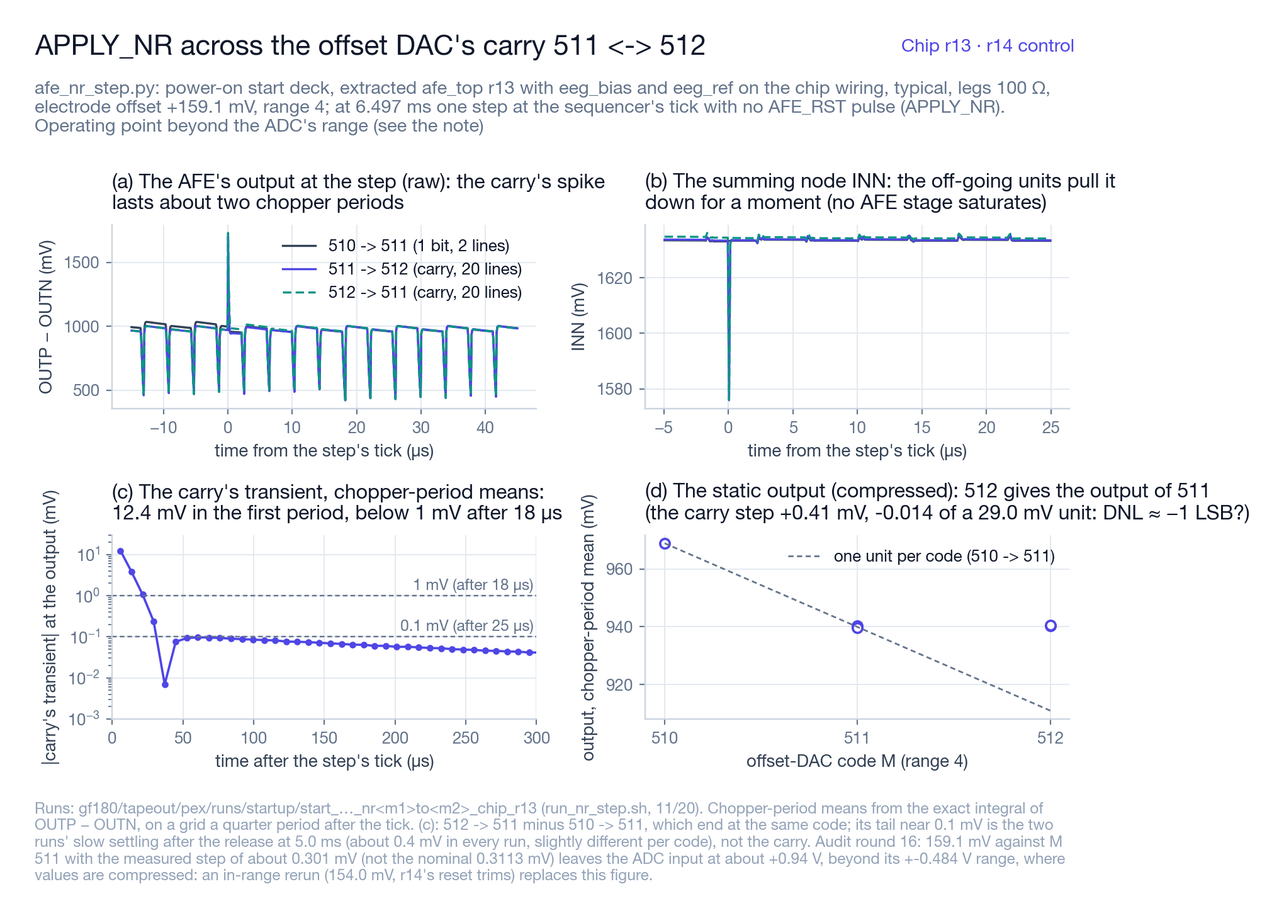
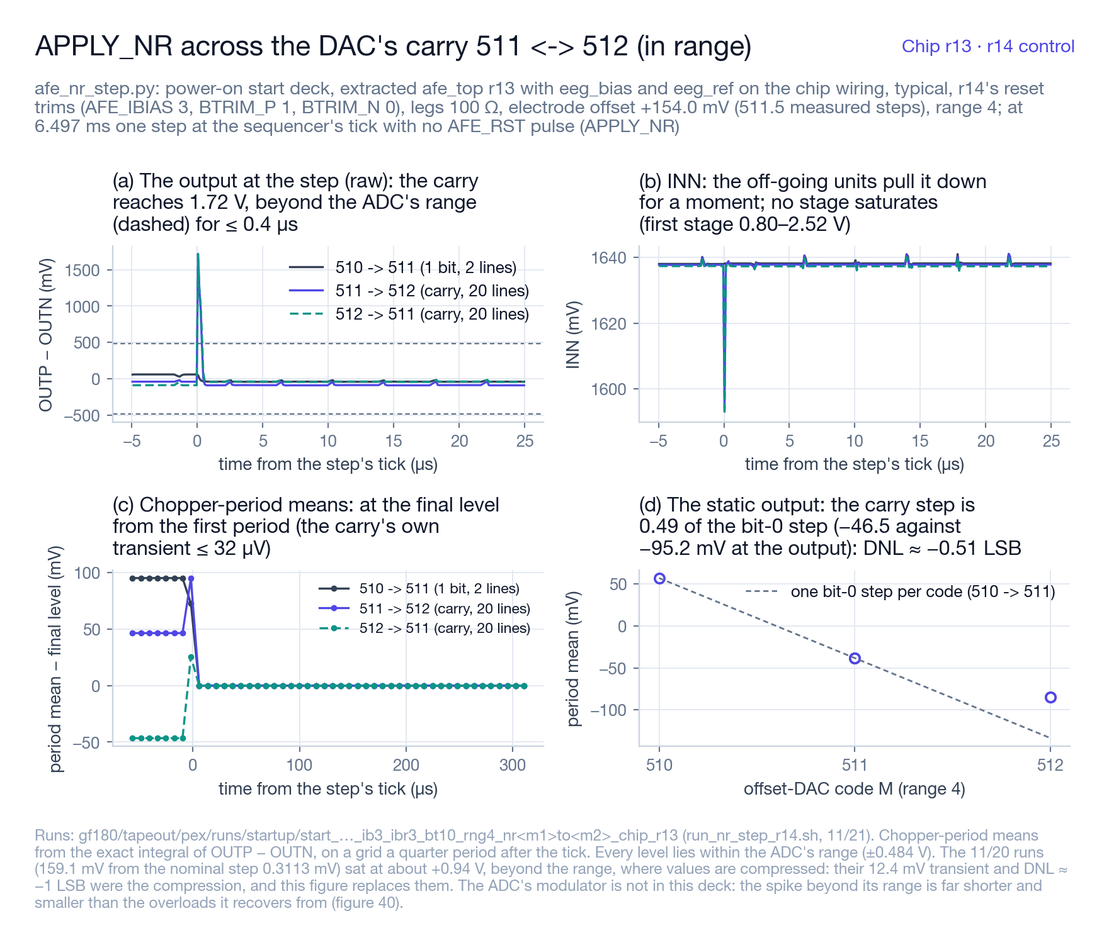
GF180 C4（11/21）：APPLY_NR の桁上がりの過渡を範囲の中で再実行し、図 49 を描き直した。11/20 のランは電極のオフセットを公称の 1 段から決めた（159.1 mV）ため ADC の入力が約 ＋0.94 V（範囲の外、圧縮）であった（監査の第 16 回）。再実行（run_nr_step_r14.sh、154.0 mV ＝ 実測の 1 段の 511.5 倍、範囲 4、r14 の既定のトリム、typical、脚 100 Ω）：桁上がり（511 ↔ 512、DAC の線 20 本）では AFE の出力の生の波形が 1.72 V に達し ADC の範囲 ±0.484 V を

diff --git a/first_tapeout_eeg/gf180/tapeout/viz/nrstep_fig.py b/first_tapeout_eeg/gf180/tapeout/viz/nrstep_fig.py
@@ -1,17 +1,20 @@
 #!/usr/bin/env python3
 """Figure 49 (r13 analog, r14 digital; 11/21): one offset-DAC step without AFE_RST (APPLY_NR) across the binary carry.
 
-afe_nr_step.py's runs (gf180/tapeout/pex/runs/nr_step/run_nr_step.sh, 11/20): afe_startup.py's start deck (power-on; the
-extracted afe_top of r13, eeg_bias and eeg_ref on the chip wiring with the pads, bond wires and the board; typical,
-27 C, AFE_IBIAS 3, legs of 100 ohm, electrode offset +159.1 mV, range 4), the AFE released at its tick, and at
-6.497 ms one step of the offset DAC's magnitude at the sequencer's tick (frame cycle 24, the register outputs at e25)
-with no AFE_RST pulse, as APPLY_NR does: 511 -> 512 and 512 -> 511 (the carry: 10 bits, 20 DAC lines) against
-510 -> 511 (1 bit, 2 lines). 512 -> 511 and 510 -> 511 end at the same code, so their difference after the step is the
-carry's own transient (audit of 11/20, round 10, A1: the requirements made a step that changes M[9:4] an APPLY).
-  (a) the AFE's output OUTP - OUTN at the step (raw, 100 ns grid);
+afe_nr_step.py's runs (gf180/tapeout/pex/runs/nr_step/run_nr_step_r14.sh, 11/21): afe_startup.py's start deck (power-on;
+the extracted afe_top of r13, eeg_bias and eeg_ref on the chip wiring with the pads, bond wires and the board; typical,
+27 C, r14's reset trims (AFE_IBIAS 3 from reset, BTRIM_P 1, BTRIM_N 0), legs of 100 ohm, electrode offset +154.0 mV
+(511.5 measured steps of about 0.301 mV), range 4), the AFE released at its tick, and at 6.497 ms one step of the
+offset DAC's magnitude at the sequencer's tick (frame cycle 24, the register outputs at e25) with no AFE_RST pulse, as
+APPLY_NR does: 511 -> 512 and 512 -> 511 (the carry: 10 bits, 20 DAC lines) against 510 -> 511 (1 bit, 2 lines). Every
+operating point lies within the ADC's range. 512 -> 511 and 510 -> 511 end at the same code, so their difference after
+the step is the carry's own transient (audit of 11/20, round 10, A1: the requirements made a step that changes M[9:4]
+an APPLY). The 11/20 runs (run_nr_step.sh: 159.1 mV from the nominal step) sat beyond the ADC's range, where values
+are compressed (audit round 16); this figure replaces them.
+  (a) the AFE's output OUTP - OUTN at the step (raw, 100 ns grid), the ADC's range marked;
   (b) the summing node INN at the step (raw);
-  (c) the carry's transient in chopper-period means (from the exact integral qo, on a grid a quarter period after the
-      tick): 512 -> 511 minus 510 -> 511, the end difference removed;
+  (c) chopper-period means (from the exact integral qo, on a grid a quarter period after the tick) against each run's
+      final level, and the carry's own transient (512 -> 511 minus 510 -> 511, the end difference removed);
   (d) the static output at the codes 510, 511 and 512 (chopper-period means before and 2-3 ms after the step).
 
 Usage: gf180/tools/venv310/bin/python gf180/tapeout/viz/nrstep_fig.py
@@ -33,11 +36,12 @@ REPO = os.path.normpath(os.path.join(HERE, "..", "..", ".."))
 RUNS = os.path.join(REPO, "gf180", "tapeout", "pex", "runs", "startup")
 OUT = os.path.join(REPO, "documentation", "figures", "gf180", f"{V.CHIP}_{V.CHIP_DATE}", "viz")
 TEAL = "#0d9488"
-NAME = "start_c1e-08_v3.3_typical_+159.1mV_m{m1}_afe5.00486ms_ib3_nr{m1}to{m2}_chip_r13"
+NAME = "start_c1e-08_v3.3_typical_+154mV_m{m1}_afe5.00486ms_ib3_ibr3_bt10_rng4_nr{m1}to{m2}_chip_r13"
 CASES = [((510, 511), INK2, "-", "510 -> 511 (1 bit, 2 lines)"),
          ((511, 512), ACCENT, "-", "511 -> 512 (carry, 20 lines)"),
          ((512, 511), TEAL, (0, (4, 2)), "512 -> 511 (carry, 20 lines)")]
 T = 1 / 128e3                                       # the chopper period at 128 kHz
+ADC_FS = 0.484                                      # DAC1's full scale at the ADC's input (V, differential)
 KEEP = ("qo", "outp_adc", "outn_adc", "inp", "inn", "opi", "oni")
 
 
@@ -61,6 +65,7 @@ def main():
     ts = data[(510, 511)][0]["t_step"]
     for k, (m, _t, _v) in data.items():
         assert abs(m["t_step"] - ts) < 1e-12 and m["apply_nr"], k
+        assert abs(_t[-1] - m["tstop"]) < 1e-6, f"{k}: the run ended at {_t[-1]} s before its tstop"
     t0 = ts - 64 * T + T / 4
     n = int((min(t[-1] for _m, t, _v in data.values()) - t0) / T) - 1
     pm = {k: means(t, v["qo"], t0, n) for k, (_m, t, v) in data.items()}
@@ -68,41 +73,59 @@ def main():
     pre, post = tk < ts - T, tk > ts + 2e-3
     level = {}                                       # code -> output levels (mV) seen before or after a step
     for (m1, m2), (_t, mm) in pm.items():
-        level.setdefault(m1, []).append(mm[pre].mean() * 1e3)
+        level.setdefault(m1, []).append(mm[pre][-16:].mean() * 1e3)
         level.setdefault(m2, []).append(mm[post].mean() * 1e3)
-    step1 = np.mean(level[510]) - np.mean(level[511])      # one unit at the output, mV
+    allv = [x for v in level.values() for x in v]
+    assert max(abs(x) for x in allv) < ADC_FS * 1e3, "an operating point beyond the ADC's range"
+    step1 = np.mean(level[510]) - np.mean(level[511])      # the bit-0 step at the output, mV
+    d512 = np.mean(level[511]) - np.mean(level[512])       # the carry step, mV
     e = pm[(512, 511)][1] - pm[(510, 511)][1]
-    e = (e - e[post].mean()) * 1e3                   # the carry's transient at the output, mV
+    e = (e - e[post].mean()) * 1e3                   # the carry's own transient at the output, mV
     after = tk >= ts
-    last = {lim: (tk[np.where(after & (np.abs(e) > lim))[0][-1]] - ts) * 1e6 for lim in (1.0, 0.1)}
-    area = e[after].sum() * T * 1e6                  # mV us
-    print(f"one unit {step1:.2f} mV at the output; the carry's transient: first period {e[np.searchsorted(tk, ts)]:.2f} mV, "
-          f"below 1 mV after {last[1.0]:.1f} us, below 0.1 mV after {last[0.1]:.1f} us, area {area:.0f} mV us")
+    emax = np.abs(e[after]).max()
+    over = {}
+    for k, (_m, t, v) in data.items():
+        vo = v["outp_adc"] - v["outn_adc"]
+        a = (t >= ts) & (np.abs(vo) > ADC_FS)
+        idx = np.nonzero(a)[0]
+        over[k] = (a.sum() * np.median(np.diff(t)) * 1e6, np.abs(vo[t >= ts]).max(),
+                   v["opi"][(t > ts - 5e-6) & (t < ts + 40e-6)].min(), v["opi"][(t > ts - 5e-6) & (t < ts + 40e-6)].max(),
+                   v["oni"][(t > ts - 5e-6) & (t < ts + 40e-6)].min(), v["oni"][(t > ts - 5e-6) & (t < ts + 40e-6)].max())
+    stage = (min(min(o[2], o[4]) for o in over.values()), max(max(o[3], o[5]) for o in over.values()))
+    print(f"bit-0 step {step1:.2f} mV, carry step {d512:.2f} mV (ratio {d512 / step1:.3f}); the carry's transient in "
+          f"chopper-period means at most {emax * 1e3:.1f} uV; beyond the ADC's range "
+          + ", ".join(f"{k[0]}->{k[1]} {o[0]:.2f} us (max {o[1]:.3f} V)" for k, o in over.items())
+          + f"; first-stage outputs {stage[0]:.2f}..{stage[1]:.2f} V")
     print("levels (mV):", {k: [round(x, 3) for x in v] for k, v in sorted(level.items())})
 
-    fig = V.figure(7.6, 6.4, "APPLY_NR across the offset DAC's carry 511 <-> 512",
+    fig = V.figure(7.6, 6.6, "APPLY_NR across the DAC's carry 511 <-> 512 (in range)",
                    "afe_nr_step.py: power-on start deck, extracted afe_top r13 with eeg_bias and eeg_ref on the chip wiring, "
-                   "typical, legs 100 Ω, electrode offset +159.1 mV, range 4; at 6.497 ms one step at the sequencer's tick "
-                   "with no AFE_RST pulse (APPLY_NR). Operating point beyond the ADC's range (see the note)",
-                   note="Runs: gf180/tapeout/pex/runs/startup/start_…_nr<m1>to<m2>_chip_r13 (run_nr_step.sh, 11/20). "
-                        "Chopper-period means from the exact integral of OUTP − OUTN, on a grid a quarter period after the "
-                        "tick. (c): 512 -> 511 minus 510 -> 511, which end at the same code; its tail near 0.1 mV is the "
-                        "two runs' slow settling after the release at 5.0 ms (about 0.4 mV in every run, slightly different "
-                        "per code), not the carry. Audit round 16: 159.1 mV against M 511 with the measured step of about "
-                        "0.301 mV (not the nominal 0.3113 mV) leaves the ADC input at about +0.94 V, beyond its +-0.484 V range, "
-                        "where values are compressed: an in-range rerun (154.0 mV, r14's reset trims) replaces this figure.")
+                   "typical, r14's reset trims (AFE_IBIAS 3, BTRIM_P 1, BTRIM_N 0), legs 100 Ω, electrode offset +154.0 mV "
+                   "(511.5 measured steps), range 4; at 6.497 ms one step at the sequencer's tick with no AFE_RST pulse "
+                   "(APPLY_NR)",
+                   note="Runs: gf180/tapeout/pex/runs/startup/start_…_ib3_ibr3_bt10_rng4_nr<m1>to<m2>_chip_r13 "
+                        "(run_nr_step_r14.sh, 11/21). Chopper-period means from the exact integral of OUTP − OUTN, on a "
+                        "grid a quarter period after the tick. Every level lies within the ADC's range (±0.484 V). The "
+                        "11/20 runs (159.1 mV from the nominal step 0.3113 mV) sat at about +0.94 V, beyond the range, where "
+                        "values are compressed: their 12.4 mV transient and DNL ≈ −1 LSB were the compression, and this "
+                        "figure replaces them. The ADC's modulator is not in this deck: the spike beyond its range is far "
+                        "shorter and smaller than the overloads it recovers from (figure 40).")
     gs = fig.add_gridspec(2, 2)
     us = lambda t: (t - ts) * 1e6
 
     ax = fig.add_subplot(gs[0, 0])
+    for lim in (-ADC_FS, ADC_FS):
+        ax.axhline(lim * 1e3, color=MUTED, lw=0.8, ls=(0, (3, 2)), zorder=0)
     for (mm, col, ls, lab) in CASES:
         _m, t, v = data[mm]
-        w = (t > ts - 15e-6) & (t < ts + 45e-6)
+        w = (t > ts - 5e-6) & (t < ts + 25e-6)
         ax.plot(us(t[w]), (v["outp_adc"][w] - v["outn_adc"][w]) * 1e3, color=col, ls=ls, lw=1.1, label=lab)
     ax.axvline(0, color=HAIR, lw=0.8, zorder=0)
     ax.set_xlabel("time from the step's tick (µs)")
     ax.set_ylabel("OUTP − OUTN (mV)")
-    ax.set_title("(a) The AFE's output at the step (raw): the carry's spike\nlasts about two chopper periods", loc="left")
+    oc = max(o[0] for k, o in over.items() if k != (510, 511))
+    ax.set_title(f"(a) The output at the step (raw): the carry\nreaches {over[(511, 512)][1]:.2f} V, beyond the ADC's "
+                 f"range\n(dashed) for ≤ {oc:.1f} µs", loc="left")
     ax.legend(loc="upper right")
 
     ax = fig.add_subplot(gs[0, 1])
@@ -113,34 +136,34 @@ def main():
     ax.axvline(0, color=HAIR, lw=0.8, zorder=0)
     ax.set_xlabel("time from the step's tick (µs)")
     ax.set_ylabel("INN (mV)")
-    ax.set_title("(b) The summing node INN: the off-going units pull it\ndown for a moment (no AFE stage saturates)", loc="left")
+    ax.set_title(f"(b) INN: the off-going units pull it down\nfor a moment; no stage saturates\n(first stage "
+                 f"{stage[0]:.2f}–{stage[1]:.2f} V)", loc="left")
 
     ax = fig.add_subplot(gs[1, 0])
-    w = after & (tk < ts + 300e-6)
+    w = (tk > ts - 8 * T) & (tk < ts + 40 * T)
     x = (tk[w] - ts) * 1e6 + T * 1e6 / 2
-    ax.semilogy(x, np.abs(e[w]), color=ACCENT, lw=1.2, marker="o", ms=2.5)
-    for lim in (1.0, 0.1):
-        ax.axhline(lim, color=MUTED, lw=0.8, ls=(0, (3, 2)))
-        ax.text(298, lim * 1.15, f"{lim:g} mV (after {last[lim]:.0f} µs)", color=MUTED, fontsize=8, ha="right", va="bottom")
-    ax.set_xlim(0, 300)
-    ax.set_ylim(1e-3, 30)
-    ax.set_xlabel("time after the step's tick (µs)")
-    ax.set_ylabel("|carry's transient| at the output (mV)")
-    ax.set_title(f"(c) The carry's transient, chopper-period means:\n{e[np.searchsorted(tk, ts)]:.1f} mV "
-                 f"in the first period, below 1 mV after {last[1.0]:.0f} µs", loc="left")
+    for (mm, col, ls, lab) in CASES:
+        _t, m_ = pm[mm]
+        ax.plot(x, (m_[w] - m_[post].mean()) * 1e3, color=col, ls=ls, lw=1.1, marker="o", ms=2.2, label=lab)
+    ax.axvline(0, color=HAIR, lw=0.8, zorder=0)
+    ax.set_xlabel("time from the step's tick (µs)")
+    ax.set_ylabel("period mean − final level (mV)")
+    ax.set_title(f"(c) Chopper-period means: at the final level\nfrom the first period (the carry's own\n"
+                 f"transient ≤ {emax * 1e3:.0f} µV)", loc="left")
+    ax.legend(loc="upper right", fontsize=7.5)
 
     ax = fig.add_subplot(gs[1, 1])
     codes = sorted(level)
     for c in codes:
         ax.plot([c] * len(level[c]), level[c], ls="none", marker="o", ms=5, color=ACCENT, mfc="white", mew=1.2)
     ax.plot(codes, [np.mean(level[510]) - step1 * (c - 510) for c in codes], color=MUTED, lw=0.9, ls=(0, (3, 2)),
-            label="one unit per code (510 -> 511)")
+            label="one bit-0 step per code (510 -> 511)")
     ax.set_xticks(codes)
     ax.set_xlabel("offset-DAC code M (range 4)")
-    ax.set_ylabel("output, chopper-period mean (mV)")
-    d512 = np.mean(level[512]) - np.mean(level[511])
-    ax.set_title(f"(d) The static output (compressed): 512 gives the output of 511\n(the carry step {d512:+.2f} mV, "
-                 f"{d512 / -step1:+.3f} of a {step1:.1f} mV unit: DNL ≈ −1 LSB?)", loc="left")
+    ax.set_ylabel("period mean (mV)")
+    mn = lambda x: f"{x:+.2f}".replace("-", "−")
+    ax.set_title(f"(d) The static output: the carry step is\n{d512 / step1:.2f} of the bit-0 step ({mn(-d512)[:-1]} against\n"
+                 f"{mn(-step1)[:-1]} mV at the output): DNL ≈ {mn(d512 / step1 - 1)} LSB", loc="left")
     ax.legend(loc="upper right")
     os.makedirs(OUT, exist_ok=True)
     path = os.path.join(OUT, f"gf180_viz_{V.CHIP}_49_nr_carry.png")

diff --git a/first_tapeout_eeg/documentation/gf180_tapeout_tracker.md b/first_tapeout_eeg/documentation/gf180_tapeout_tracker.md
@@ -92,7 +92,7 @@
 | C1 | RTL：クロック生成、DWA ×2、サーモ→2 進、CIC3、FIFO、SPI、レジスタ、生コード出力。`gf180/tapeout/rtl/` に実装した。追加：チョッパ周波数の選択（既定 128 kHz）、ANA_TRIM（CPF_TRIM、AFE_IBIAS）、CHOP_BLANK（切り替えの 1 MCLK 前から BLANK_LEN 後まで。既定 7）、BOOST_TRIM（ブースト段の単位数）、OFF_CODE_L／OFF_CTRL（電極オフセットの DAC）、CHOP1（OTA1 のチョッパ、レジスタ 0x0F、既定 4 kHz、`eeg_chop1.sv`）、DAC_CLK（DAC1 の更新、e4）。10/23（ゲート 1）：TH の取り込みと DWA を `eeg_adc_dig.sv` に分けた（2 つをつないだ `eeg_digital_sys.sv` で、tb_top の結果は分ける前と同じ）。TEST_CFG[5] ADC_ZERO、[7:6] DBG_SEL を追加。VERSION 0x07。13 本のテストが通る | 10/31 | ✅ |
 | C2 | 検証：単体テスト、行動モデルのコード列による bit-true の通し試験（4 s／20 s 分）。10/24（`gf180_digital_verification_20261024.md`）：単体テスト 13 本が通る。連続時間 2 次 5 bit のループの行動モデル（DAC2 e3・DAC1 e4）のコード列で 4 s／20 s 分の出力を通し、SPI で読んだ 4 250／20 250 サンプルがすべて bit-exact、毎フレームの SEL（DWA）・RAW・ストローブ・CHOP 系の検査も誤りなし（`gf180/tapeout/rtl/run_e2e.sh`）。チップに入っているゲートレベルのネットリスト 2 つを RTL と並べて動かし、出力 108 本とブロック間の 9 本が毎 MCLK で一致（tb_spi、tb_top、通し試験 4 s 分を 5 区間に分けて、計 1 億 4 553 万 サイクル。`run_tests.sh --gl`）。RTL の不具合はなく、マクロを作り直す必要はない。出力の 24 bit の丸めは電極換算 0.026 nVrms。CIC3 の 900 Hz の応答 −57.7 dB は仕様どおりで、0.9〜1.1 kHz の妨害は入力側で落とす（リスク表） | 11/7 | ✅ |
 | C3 | LibreLane（nix）でマクロ化、STA。10/23：eeg_digital_top（f2）と eeg_adc_dig（f3）を作り、3.3 V の 9 コーナーで setup／hold を満たす（ss/125 °C で +1.10／+5.36 ns、ff の hold +0.19／+0.20 ns）。10/24：チップの配線（コアの LVS から抽出）を含めて OpenSTA で解いた（`gf180/tapeout/digital/chip_sta/`）。2 つのマクロの MCLK の端子の差は 0.02 ns 以下、ブロック間の余裕は setup +9.9／hold +1.89 ns 以上、TH の取り込みは最悪の組み合わせで +4.6 ns（量子化器をトランジスタで）。AFE／ADC への長い制御線（CHOP 系 約 3.3 mm、0.6〜1.7 pF）を buf_1 が駆動し、ss で縁が 20〜25 ns になるが、AFE と OTA1 のチョッパのドライバ、DAC1 のブレーク、量子化器はトランジスタで正しく動き、隣の線との結合の乱れも 0.8 V 以下。出力バッファを強くした候補 d1 は、静的な線への結合が 1.2〜3 倍になるので採らない。マクロは今の f2／f3 のまま | 11/21 | ✅ |
-| C4 | デジタル制御（SPI・レジスタ・起動とデータ開始の手順）の見直し。11/19、ユーザーと実務者の指摘（レジスタの構成が SPI の一般的な使い方に合わない、ビットの区切りと反映時刻、アナログの起動に合わせた SPI とデータ開始の方法、状態機械とフラグによる構成）を受け、現状を状態遷移図（動作状態、SPI のトランザクション、CIC と FIFO）に整理し、問題点 42 項目（SPI 9、レジスタと反映時刻 7、起動と運転の順序 9、状態と通知 5、ADC・AFE の制御 5、クロックとリセット 2、検証 3、データ経路 2）を抽出（`gf180_digital_control_review_20261119.md`）。重大度の高いもの：B1（オフセット DAC の M[9:0] が 2 レジスタに分割、256 の倍数の境界をまたぐ変更で中間値による約 80 mV の段差、AFE の飽和の大きさ約 4 mV を大きく超過、運転中の 1 段の追従でも発生）、B2（アナログに影響する設定の即時反映）、C1・C2（起動とオフセット調整の待ち時間・パルス幅がホスト任せ）、C6（データ開始の位相が FILTER_CLEAR の書き込み時刻で決まり、多チップで最大 1 ms のずれ）、A1（長さの異なる書き込みを通知なしで無視）、G3（ファームウェアを含めた試験なし）。状態機械（POR、IDLE、WARMUP、RECOVER、SETTLE、RUN、APPLY）、命令レジスタの分離、二重バッファと一括反映、固定長フレーム、フラグと ALERT による改善のたたき台を作成。AD7386 はデータシート本文を取得できず、目次と Linux ドライバの文書で確認できた範囲のみ比較。今回 rev で改修する範囲（全面、最小限、改修なし）はユーザーの判断待ち。11/19 夜：要件定義の案（`gf180_digital_control_requirements_20261119.md`）。シーケンサ（RESET、IDLE、WARMUP、RECOVER、SETTLE、RUN、PRE、PULSE）の模範の状態遷移図・状態表・状態遷移表、SPI（R/W とアドレスの形式、先頭バイトで STATUS、書き込みは長さと CRC の検査で確定）、レジスタ（命令の分離、シャドウとアクティブの二重化）、フラグとエラー、ピン（RAW_CLK と RAW_DATA を SYNC と ALERT_N に兼用し、パッドリングは変えない）、非機能と検証の要件、日程の案。未決事項 D-1〜D-8（改修の範囲、SPI の形式、ピン、FIFO の深さ、CHOP_DLY、CRC の既定、自動開始、過負荷の扱い）。11/19 夜（r2）：状態遷移表を機械可読の仕様源（`gf180/tapeout/rtl/spec/fsm_spec.py`）とし、Mermaid の図と表を生成。完全性、決定性、到達性、行き止まり、同時の事象（シーケンサの 5,376 通り）、SPI の確定と取り出しの条件、FIFO の同時の操作を自動で検査して違反 0。仕様の誤り 27 種類を入れる自己試験で、全て検出されることを確認。r1 の論理の穴 19 件を修正（SETTLE を ALIGN と FILL に、WAIT_E の新設、tick と優先順位、STOP による取り消し、cfg_ok の定義など）。11/19 夜（r3、ユーザーの指示「アナログの仕様も確認し、他に問題がないように」）：境目の全信号（25 項目）をアナログ側の文書と照合（第 4.10 節）。r2 の穴 8 件を修正：SYNC と ALERT の RAW のパッドとの兼用はパッドの衝突の危険があるため廃止（同期は MCLK と RESET_N の共有、格子の原点はリセットの解除）、CHOP1 の切り替えの区切りを出力の格子とそろえる（旧い相の重み 9.3 × 10⁻¹⁰）、64 kHz で tick の間に命令が 2 個届く問題を 1 個の保持と STATE_ERR で解消、tick をチョッパの相 A の中ほどの e24 に固定（AFE_RST の縁の位相を決定）、AFE の動作中のパルスなしの反映を ±1 段に限定、過負荷の検出の規則の案（フルスケールのコード列 2,460 万フレームで符号は 3〜27、両端は出ない）。フレーム内の時刻、タイマの最小値、CHOP1、SPI の間隔も自動の検査に追加。検査は違反 0、自己試験は 28 種類すべて検出。11/19 夜：ユーザーの判断「推奨どおりで進めて」で未決事項 D-1〜D-8 を推奨のとおり決定。詳細仕様（`gf180_digital_control_spec_20261119.md`）を作成：レジスタ表を機械可読の仕様源（`gf180/tapeout/rtl/spec/regmap.py`）とし、表と RTL 用の `eeg_regs_pkg.sv` を生成、検査（アドレスとビットの重なり、アナログに効く設定の全てが一括反映、推奨の既定値、タイマの最小値、命令コードの 2 ビット以上の差、STATUS の固定ビット、cfg_ok と nr_ok の境界、過負荷の規則の誤検出なし）は違反 0、自己試験は 15 種類すべて検出（検査器の弱点 1 件を発見して修正）。タイミング図 5 枚を WaveDrom で生成。過負荷の規則（32 フレームに両端の符号 4 個以上）は、フルスケールのコード列で誤検出 0、抽出した ADC の過負荷のランで 4.2 µs 後に検出、戻りの 90.5 µs 後に解除。VER-07（tick の位相でのアナログの確認）を 11/19 の 20 時 52 分にターミナルのタブ c43 で開始（当初の記録の 21 時 40 分は誤り。5 本を並列。`afe_saturation.py --seq` を追加。typical 300／30 mV、ss 300 mV、51 kΩ ∥ 47 nF の 300 mV、起動の 5 本。解除・書き込み・パルスの縁は全て相 A の縁から 57 MCLK）。11/19 夜：r14 の RTL（ユーザーの指示「RTL に進めて」、`gf180/tapeout/rtl_r14/`、詳細仕様の第 7 節）。シーケンサ、tick、CIC の出力の時刻でのクリア、過負荷の検出、レジスタ、SPI、FIFO、最上位（端子は現行と同じ。現行の `rtl/` は r13 の元として不変）。仕様源との照合（VER-09）：シーケンサは乱数の事象列 262,496 事象で不一致 0、状態遷移表の 75 欄すべて。SPI は乱数のフレーム 1,774 個を端子から入れ、SPI の状態遷移表・レジスタ表・CRC-8 で再現して不一致 0、分岐 34 個すべて（MISO の全バイトを含む。取り出しの条件 head は RTL から取らずに独立に求めて比較）。ブロック全体の試験（tb_top_r14）：レジスタ表から生成した 312 項目、CRC とフレームの誤り、START から RUN、APPLY のパルス 101.5639 µs、APPLY_NR と CHANGED、エラー、64 kHz の未処理の命令、FLUSH とオーバーラン、FLUSH をまたぐ読み出し、DRDY_N のパルス、SOFT_RESET で誤り 0。アナログの制御端子の変化は全て tick の直後かリセット中。サンプルは黄金の CIC とビット単位で一致。試験の自己試験（RTL に誤りを 1 個ずつ入れる）：tb_top_r14 は 24 種類、SPI の照合は 13 種類をすべて検出、基準は不一致 0（途中で試験の穴 3 件を修正：読み出しのバイトの途中の CS_N の未試験、格納をまたぐサンプルの読み出しの不足と head の独立化、X での照合器の停止）。RTL の作成で見つけた仕様の穴 4 件を仕様源と文書に反映して修正（FLUSH をまたぐ読み出しで送っていないサンプルを取り出す穴に対し条件 head を新設、試験の鍵の誤りを CMD_ERR と定義、未処理の命令と SOFT_RESET・未定義のコードの関係、DRDY_N のパルス 128 MCLK）。仕様の自己試験は 32 種類すべて検出。面積の目安（汎用セルの合成）：現行のデジタル 4,274 セル・FF 873 個に対し r14 は 5,737 セル（＋34 %）・FF 1,097 個（＋26 %）、FIFO 4 段でも −7 %。現行のマクロ（440 × 700 µm、使用率 75.8 %）に比例させると 95〜102 % で、外形に収まらない見込み。面積の試行（11/19 夜、LibreLane、GF180 9 トラック、`gf180/tapeout/digital/eeg_digital_top_r14/`）：合成 6,182 セル・225,710 µm²（r13 ＋26 %）。440 × 700 µm は使用率 92.0 % でクロックツリーの挿入後の詳細配置が失敗。440 × 900 µm は使用率 73.6 % で完走（配線の DRC・Magic・KLayout 0、LVS 一致、アンテナ 0、セットアップ最悪 ＋0.520 ns（ss、CIC → 丸めと飽和、r13 ＋1.096）、ホールド ＋0.194 ns）。新しいリセットの分配木の最大スルー 4.76 ns（上限 3 ns）は要修正。DVDD のデカップリングの上に 200 µm の余地あり。**r14 のマクロの外形を 440 × 900 µm に決定**（11/19 夜、ユーザーの判断「Yes, 440 × 900」。チップでは DVDD のデカップリングを 200 µm 上へ移す）。lint：Verilator の -Wall（除外なし）で警告 0 に整理（cc3652e6）。11/20：監査（ユーザーの指示「最新の遷移図をもとに，全く問題がないかきちんとチェックしてください。監査を行い，問題がなくなるまで続けてください。」、`gf180_digital_control_audit_20261120.md`）。第 1 回（自らの確認と、結論を渡さない独立の監査 2 件）で 20 件を指摘し、全て修正：重大 4 件（WARMUP の反映で T_WARM を数え直さず、オフセット DAC の変更と同じ tick に AFE_RST を解除しうる → 数え直しと同じ tick の満了の取り消し、要件 SEQ-16。サンプルの OVL が窓 3 ms のうち直前の 1 ms のみ → 3 個の出力の間隔。SOFT_RESET が格子・SEQ・CHOP1 を戻し多チップの同期が崩れる → 制御のみを戻す。模範のホスト手順が記載どおりに動かない → APPLY で FIFO を空にし、CMD_PENDING ＝ 0 を待つ手順）、中 3 件（64 kHz で未処理の命令の間に書いたシャドウを命令が読む → 書き込みを STATE_ERR、高抵抗の電極で APPLY_NR の整定が CHANGED を超える → 3 ＋ T_ELEC 個と RUN の前の待ち直し、探索の T_ELEC）、軽 6 件、検証の穴 3 件、文書の不一致 13 件、アナログの未確認 1 件、RUN を出ても CHANGED の残りが付く 1 件、試験が終わらない変異 1 件。修正のあとの検証：仕様の検査は違反 0、自己試験 50／15 種を全て検出、tb_seq 262,496 事象で不一致 0（77 欄、タイマを独立に模擬）、tb_top_r14 A〜K で誤り 0（FIFO 8 段と 4 段、29 サンプルが黄金の CIC と一致）、tb_spi_r14 1,803 フレームで不一致 0（33 分岐）、Verilator 警告 0、変異の自己試験はブロック全体 38 種・SPI 13 種・シーケンサ 8 種の全てを検出。第 2 回（新たな独立の監査 3 件：シーケンサとアナログ側、SPI・レジスタ・FIFO・データの経路、検証と文書）：RTL の機能の誤りはなし。ホスト手順（高抵抗の電極の探索、命令の完了の確認、DRDY_N の読み方）、仕様の検査器の穴（待ちを別の事象で切る表の誤り）、CHANGED の上書き、試験の穴（RTL に誤りを入れた写し 15 種が全ての試験を通った：アナログの制御端子の値、タイマの長さと限界、cfg_ok の範囲、DFLAG.OVL の制限、FIFO の模型との照合、実行器の判定）、文書の不一致を全て対応。端子の規則を仕様源に入れ、RTL の範囲の表と OFEN を生成に改めた。試験 11 群が合格、変異の自己試験はブロック全体 59・SPI 13・シーケンサ 11・FIFO 5 種の全てを検出。第 3 回（独立の監査 3 件）：RTL の論理の誤りはなし。安全側の変更 1 件（SPI の不正な状態の値を FRAME_ERR に、NFR-05）。試験と検査器の穴（APPLY_NR の規則、シャドウだけの書き込み、SOFT_RESET の FIFO、W1C、全番地の連続読み出し、STATE、RAW とフレームの時刻の端子、実行器の判定、仕様の検査器の 9 種）、ホスト手順（CRC を最初に有効に、SOFT_RESET の確認と DAC の書き直し、APPLY_NR の歩み）、文書を全て対応。試験 13 群が合格、変異はブロック全体 78・SPI 13・シーケンサ 11・FIFO 5・レジスタ 3 種の全てを検出。第 4 回（独立の監査 3 件）：RTL の論理の誤りはなし。安全側の変更 1 件（SOFT_RESET の確定のサイクルの tick と出力の時刻を止め、端子の短いパルスを除く）。写し 24 種が全ての試験を通った穴（M の上位の APPLY_NR、PULSE の CHOP_EN、STATUS の READY、SOFT_RESET をまたぐ過負荷の検出と DAC_CLK、拒否した命令、SPI の不正な状態、CHOP1 の境界など）を塞ぎ、cfg_ok と nr_ok の照合、全ての出力がレジスタであることの構造の確認、仕様の検査器の分岐ごとの性質（自己試験 78 種）を加えた。ホスト手順（命令の前の設定の確認、IF_CFG を 1 回で、SOFT_RESET の確認の改訂）。第 5 回（独立の監査 3 件）：RTL の論理の誤りはなし。サンプルの CRC に先頭バイト 0xC0 を含める（1 ビットの化けで CRC の合う空の語となり読み出しが止まる穴）、CIC のクリアの判断を SOFT_RESET の確定のサイクルで止める、命令の確認のサイクルの試験（T7、tb_regs）、仕様の検査器を tick の解決の結果で（自己試験 83 種）、変異の実行器の判定（TIMEOUT は未決）、手順の穴。17 件を修正。第 6 回（独立の監査 3 件）：RTL の論理の誤りはなし。OVL の印を両端の符号のフレームに限る（尾が窓の外の間隔に及ぶ、安全側）、ホスト手順を一つに整理し同期の回復と上限、全ての試験を通った写し 10 種の穴（T10、T11、マスク、R4b、R9 など）、仕様の検査器が表の 1 か所の書き換えを見逃す穴（シーケンサ 51、SPI 174 → 0 と等価な 2。自己試験 95 種）、変異の実行器（TOOL ERROR、INCOMPLETE）。14 件を修正。試験 16 群が合格、変異の全数の実行（165 種と基準 9 本）は、第 7 回の修正のため 110 本で止めた（全て検出）。第 7 回（独立の監査 3 件）：RTL の論理の誤りはなし。AFE_RST が ADC の積分器のリセットを兼ねることを明記、ホスト手順（CRC の合うサンプル、同期の回復の確かめ、RUN の APPLY を STATE ≠ RUN で）、全ての試験を通った写し 4 種の穴（SEQ の計数の表、過負荷の閾値、FIFO_LEVEL、ガード）、表の 1 か所の書き換えの全数が検査で捕まる（シーケンサ 1,931、SPI 1,159 通り。自己試験 105 種、regmap 19 種）。16 件を修正。第 8 回（独立の監査 3 件）：RTL の論理の誤りはなし。CHOP_STOP の説明の訂正（出力チョッパも相 A に固定）、ホスト手順（APPLY の確かめの起点、(a) を満たさない命令、W1C、CRC 無効のサンプル）、全ての試験を通った写し 5 種の穴（ガードの判断の順、空の語、RAW_DATA、MISO の遅れ）、STATUS とサンプルの状態のバイトを生成した定数で（形式の等価性で一致）、黄金の比較を全ての段に。18 件を修正。第 9 回（独立の監査 3 件）：RTL の論理の誤りはなし。整合する設定の APPLY と APPLY_NR を拒否とする表が検査を通る穴（C の 6,267 通りの掃引で 12 通り）→ 命令の結果を要件から独立に書いた規則と照合（通るのは等価な 28 通り）、同期の段数の構造の検査と遅れの下限、自己試験を目的の違反の文で（fsm_spec 152 種、regmap 37 種、全ての違反の文を固定）、全ての試験を通った写し 3 種の穴（SOFT_RESET の長さ、TH の取り込みのサイクル、RAW の読み込みのサイクル）と V（各状態の APPLY と APPLY_NR）、変異の実行器（SIM ERROR、CHECKER ERROR、--only）、ホスト手順（複数チップの SEQ の揃い、ホストだけの再起動、モードの判定、CRC 無効の読み出しは 3 バイト以上）。18 件を修正。第 10 回（独立の監査 3 件）：RTL の変更 1 件（SPI：リセットの解除のときに走っているフレームを途中から拾い、CRC の書き込みの尾を CRC なしの書き込みとして確定していた → CS_N の同期の初期値を Low、High を見るまでフレームを取らない。W で確認）。APPLY_NR の桁上がりの過渡（511 → 512 で電極換算 約 159 mV）→ 16 の倍数をまたぐ 1 段は APPLY、トランジスタのレベルの評価を実行中。regmap の既定値の固定（試験の設定の既定値の書き換えが全てを通った）とフィールドの規則、仕様の検査の SPI-03 と事象ごとの条件、BFM のフレームの始まりの時刻、V10。17 件を修正。第 11 回（独立の監査 3 件）：RTL の論理の誤りはなし（RTL は手書きの集合と位置を生成した定数に置き換えるのみ、yosys の形式の等価性で一致）。ホスト手順の ERR の持ち主（手順 6 と 8 のクリアが手順 3、4、9 の確かめの証拠を消す → 共通の規則 (e)、手順 3 の読み戻し、手順 4 は効果で）、過負荷の両端の集合の境、不正な状態値と命令の組、読み出し専用の位置、合法な値の表、SPI のバイトの事象の条件。11 件を修正。第 12 回（独立の監査 3 件）：RTL の論理の誤りはなし（RTL は注記のみ）。検証の穴（重大）：eeg_regs のリセットを同期とした写しが全てを通った → tb_top_r14 の X（MCLK を止めて RESET_N）と、全てのフリップフロップの非同期のリセットの構造の検査。仕様の検査器（標本の窓への書き込み、FILL から RUN、タイマの欄）、ホスト手順（複数チップの SEQ、持続する過負荷の手順 8、手順 3 のマスク）、区画、文書。14 件を修正。第 13 回（独立の監査 3 件）：RTL の論理の誤りはなし（RTL は eeg_clkgen の tick の位置を生成した定数に。形式の等価性で一致）。ホスト手順（重大）：レベルのモードの DRDY_N の立ち下がりを逃すと読み出しが止まる → レベルで読む。試験の穴：守らないレジスタの未処理の命令の間の書き込み、CRC 有効の窓への書き込み（全てを通った写し 3 種）。検査器：確定しない書き込みの保持、コードとビットの固定、合成状態の所属。サンプルの二重の記録、tick の一つの出どころ、手順 4 の出口。12 件を修正。第 14 回（独立の監査 3 件）：RTL の論理の誤りはなし（RTL は状態のレジスタに fsm_encoding ＝ "none" の属性のみ）。検査器と試験の穴（重大 3 件）：REG-03 を確かめず STOP で反映する表と RTL が通った、サンプルの OVERRUN ＝ 0 と空の語の ERR ＝ 0 を確かめていなかった、空の FIFO への格納と同じサイクルの写しを通らなかった → 検査、V12、G、T4、T13。ホスト手順の手順 4、端子の欄の照合、tick の位置の照合、FIFO の群の基準、タイミング図の文。17 件を修正。第 15 回（独立の監査 3 件）：RTL の論理の誤りはなし（RTL の変更なし。A は文書の 1 件のみ）。ホスト手順（重大）：手順 5 の SEQ の比較は約 0.7 ms ずれた格子を通す → 番号と位相（DRDY_N の時刻付け、または STATUS の DATA）、RST-04 に RESET_N の同時の単調な解除の基板の要件、CRC の合わない回は数えない。試験の穴（重大）：SOFT_RESET の全てのレジスタと旗の復帰を確かめず、タイマ、ALERT のマスク、DFLAG、DRDY_MODE を戻さない写しが通った → Y。書き込み専用の読み出し、合法でない全ての値、STATUS の READY と DATA、待つ間の鍵の効果。検査器：STATUS の 6 ビット、1 バイトの命令と鍵、読み値、SAMPLE の既定値。SPI のタイミング図をサンプルのフレームの一つの定義と表から生成（`wave.py selftest`）。文書（手順 6、NFR-05、§4.10 など）と V13。18 件を修正し、APPLY_NR の桁上がりの評価を記録（図 49：最初の周期 12.4 mV、0.1 mV 未満まで 25 µs、飽和なし。DAC の最上位の桁上がりの DNL ≈ −1 LSB）→ 規則の扱いは判断に諮る。第 16 回（独立の監査 3 件）：RTL の論理の誤りはなし。アナログの検証（重大）：VER-07 の結果が未記録で、オフセットの書き込みの 3 本と図 49 の桁上がりのランは M を公称の 1 段から決めたため ADC の入力が範囲の外 → デッキに r14 の既定のトリムと範囲の選択肢、範囲の中で 6 本、起動と電極に R・C のある 1 本も r14 の既定のトリムで再実行中。試験の穴（重大）：SOFT_RESET を越えて残る未処理の命令 → I。ホスト手順：窓の隣の 3 アドレスの 2 回の読み、読み直しは 1 バイト分の SCLK、再送の規則の範囲。基板：MISO の引き上げか保持（PIN-04）、RESET_N を能動的に Low。鍵と命令の 1 バイトの比べ、合成状態の始まりの状態、優先順位の完全性、生成する文、実行器の生成物の作り直し。13 件を修正。第 17 回（独立の監査 3 件）：RTL の論理の誤りはなし。試験の穴（重大）：CHOP_BLANK の端子の CHOP_OUT の縁に対する位置（端子をフリップフロップにした写しが全てを通った）→ 端子の監視。CHOP1 の e16、O の DBG_SEL 3、Y0、V13 を 2 MHz に、リセットのあとの波形。検査器：tick の列挙の固定、同じ動作の分岐の拒否、regmap.check のクラッシュ。文書：CHOP1 の速さの変化の位置、R_sc、nr_ok の文、手順 2 の RESET_FLAG のクリアの確かめ、サンプルの先頭バイトの一つの出どころ（SMP_HDR）。14 件を修正。マクロ r14m3（クロックツリーの束 10 個・0.2 pF）：セットアップ ss ＋0.979 ns、クロックの警告 9・62 → 1・1、最大スルー 2 は残る。マクロ：r14m1（クロックツリーの束と密度 80 %）はセットアップ −0.436 ns（ss）で不採用、r14m2（r13 の値に戻し、タイミングの修復の余裕を追加）を 11/20 1 時 13 分に開始 | 11/19 | ▶（要件 r3 ✅、詳細仕様 ✅、r14 の RTL と照合 ✅、面積の試行 ✅（外形 440 × 900 µm に決定）、監査の第 1 回 ✅（20 件を修正）、第 2 回 ✅（25 件を修正）、第 3 回 ✅（18 件を修正）、第 4 回 ✅（18 件を修正）、第 5 回 ✅（17 件を修正）、第 6 回 ✅（14 件を修正）、第 7 回 ✅（16 件を修正）、第 8 回 ✅（18 件を修正）、第 9 回 ✅（18 件を修正）、第 10 回 ✅（17 件を修正）、第 11 回 ✅（11 件を修正）、第 12 回 ✅（14 件を修正）、第 13 回 ✅（12 件を修正）、第 14 回 ✅（17 件を修正）、第 15 回 ✅（18 件を修正）、第 16 回 ✅（13 件を修正。アナログの再実行中）、第 17 回 ✅（14 件を修正）、第 18 回を実施中、次は通しの試験・ゲートレベル） |
+| C4 | デジタル制御（SPI・レジスタ・起動とデータ開始の手順）の見直し。11/19、ユーザーと実務者の指摘（レジスタの構成が SPI の一般的な使い方に合わない、ビットの区切りと反映時刻、アナログの起動に合わせた SPI とデータ開始の方法、状態機械とフラグによる構成）を受け、現状を状態遷移図（動作状態、SPI のトランザクション、CIC と FIFO）に整理し、問題点 42 項目（SPI 9、レジスタと反映時刻 7、起動と運転の順序 9、状態と通知 5、ADC・AFE の制御 5、クロックとリセット 2、検証 3、データ経路 2）を抽出（`gf180_digital_control_review_20261119.md`）。重大度の高いもの：B1（オフセット DAC の M[9:0] が 2 レジスタに分割、256 の倍数の境界をまたぐ変更で中間値による約 80 mV の段差、AFE の飽和の大きさ約 4 mV を大きく超過、運転中の 1 段の追従でも発生）、B2（アナログに影響する設定の即時反映）、C1・C2（起動とオフセット調整の待ち時間・パルス幅がホスト任せ）、C6（データ開始の位相が FILTER_CLEAR の書き込み時刻で決まり、多チップで最大 1 ms のずれ）、A1（長さの異なる書き込みを通知なしで無視）、G3（ファームウェアを含めた試験なし）。状態機械（POR、IDLE、WARMUP、RECOVER、SETTLE、RUN、APPLY）、命令レジスタの分離、二重バッファと一括反映、固定長フレーム、フラグと ALERT による改善のたたき台を作成。AD7386 はデータシート本文を取得できず、目次と Linux ドライバの文書で確認できた範囲のみ比較。今回 rev で改修する範囲（全面、最小限、改修なし）はユーザーの判断待ち。11/19 夜：要件定義の案（`gf180_digital_control_requirements_20261119.md`）。シーケンサ（RESET、IDLE、WARMUP、RECOVER、SETTLE、RUN、PRE、PULSE）の模範の状態遷移図・状態表・状態遷移表、SPI（R/W とアドレスの形式、先頭バイトで STATUS、書き込みは長さと CRC の検査で確定）、レジスタ（命令の分離、シャドウとアクティブの二重化）、フラグとエラー、ピン（RAW_CLK と RAW_DATA を SYNC と ALERT_N に兼用し、パッドリングは変えない）、非機能と検証の要件、日程の案。未決事項 D-1〜D-8（改修の範囲、SPI の形式、ピン、FIFO の深さ、CHOP_DLY、CRC の既定、自動開始、過負荷の扱い）。11/19 夜（r2）：状態遷移表を機械可読の仕様源（`gf180/tapeout/rtl/spec/fsm_spec.py`）とし、Mermaid の図と表を生成。完全性、決定性、到達性、行き止まり、同時の事象（シーケンサの 5,376 通り）、SPI の確定と取り出しの条件、FIFO の同時の操作を自動で検査して違反 0。仕様の誤り 27 種類を入れる自己試験で、全て検出されることを確認。r1 の論理の穴 19 件を修正（SETTLE を ALIGN と FILL に、WAIT_E の新設、tick と優先順位、STOP による取り消し、cfg_ok の定義など）。11/19 夜（r3、ユーザーの指示「アナログの仕様も確認し、他に問題がないように」）：境目の全信号（25 項目）をアナログ側の文書と照合（第 4.10 節）。r2 の穴 8 件を修正：SYNC と ALERT の RAW のパッドとの兼用はパッドの衝突の危険があるため廃止（同期は MCLK と RESET_N の共有、格子の原点はリセットの解除）、CHOP1 の切り替えの区切りを出力の格子とそろえる（旧い相の重み 9.3 × 10⁻¹⁰）、64 kHz で tick の間に命令が 2 個届く問題を 1 個の保持と STATE_ERR で解消、tick をチョッパの相 A の中ほどの e24 に固定（AFE_RST の縁の位相を決定）、AFE の動作中のパルスなしの反映を ±1 段に限定、過負荷の検出の規則の案（フルスケールのコード列 2,460 万フレームで符号は 3〜27、両端は出ない）。フレーム内の時刻、タイマの最小値、CHOP1、SPI の間隔も自動の検査に追加。検査は違反 0、自己試験は 28 種類すべて検出。11/19 夜：ユーザーの判断「推奨どおりで進めて」で未決事項 D-1〜D-8 を推奨のとおり決定。詳細仕様（`gf180_digital_control_spec_20261119.md`）を作成：レジスタ表を機械可読の仕様源（`gf180/tapeout/rtl/spec/regmap.py`）とし、表と RTL 用の `eeg_regs_pkg.sv` を生成、検査（アドレスとビットの重なり、アナログに効く設定の全てが一括反映、推奨の既定値、タイマの最小値、命令コードの 2 ビット以上の差、STATUS の固定ビット、cfg_ok と nr_ok の境界、過負荷の規則の誤検出なし）は違反 0、自己試験は 15 種類すべて検出（検査器の弱点 1 件を発見して修正）。タイミング図 5 枚を WaveDrom で生成。過負荷の規則（32 フレームに両端の符号 4 個以上）は、フルスケールのコード列で誤検出 0、抽出した ADC の過負荷のランで 4.2 µs 後に検出、戻りの 90.5 µs 後に解除。VER-07（tick の位相でのアナログの確認）を 11/19 の 20 時 52 分にターミナルのタブ c43 で開始（当初の記録の 21 時 40 分は誤り。5 本を並列。`afe_saturation.py --seq` を追加。typical 300／30 mV、ss 300 mV、51 kΩ ∥ 47 nF の 300 mV、起動の 5 本。解除・書き込み・パルスの縁は全て相 A の縁から 57 MCLK）。11/19 夜：r14 の RTL（ユーザーの指示「RTL に進めて」、`gf180/tapeout/rtl_r14/`、詳細仕様の第 7 節）。シーケンサ、tick、CIC の出力の時刻でのクリア、過負荷の検出、レジスタ、SPI、FIFO、最上位（端子は現行と同じ。現行の `rtl/` は r13 の元として不変）。仕様源との照合（VER-09）：シーケンサは乱数の事象列 262,496 事象で不一致 0、状態遷移表の 75 欄すべて。SPI は乱数のフレーム 1,774 個を端子から入れ、SPI の状態遷移表・レジスタ表・CRC-8 で再現して不一致 0、分岐 34 個すべて（MISO の全バイトを含む。取り出しの条件 head は RTL から取らずに独立に求めて比較）。ブロック全体の試験（tb_top_r14）：レジスタ表から生成した 312 項目、CRC とフレームの誤り、START から RUN、APPLY のパルス 101.5639 µs、APPLY_NR と CHANGED、エラー、64 kHz の未処理の命令、FLUSH とオーバーラン、FLUSH をまたぐ読み出し、DRDY_N のパルス、SOFT_RESET で誤り 0。アナログの制御端子の変化は全て tick の直後かリセット中。サンプルは黄金の CIC とビット単位で一致。試験の自己試験（RTL に誤りを 1 個ずつ入れる）：tb_top_r14 は 24 種類、SPI の照合は 13 種類をすべて検出、基準は不一致 0（途中で試験の穴 3 件を修正：読み出しのバイトの途中の CS_N の未試験、格納をまたぐサンプルの読み出しの不足と head の独立化、X での照合器の停止）。RTL の作成で見つけた仕様の穴 4 件を仕様源と文書に反映して修正（FLUSH をまたぐ読み出しで送っていないサンプルを取り出す穴に対し条件 head を新設、試験の鍵の誤りを CMD_ERR と定義、未処理の命令と SOFT_RESET・未定義のコードの関係、DRDY_N のパルス 128 MCLK）。仕様の自己試験は 32 種類すべて検出。面積の目安（汎用セルの合成）：現行のデジタル 4,274 セル・FF 873 個に対し r14 は 5,737 セル（＋34 %）・FF 1,097 個（＋26 %）、FIFO 4 段でも −7 %。現行のマクロ（440 × 700 µm、使用率 75.8 %）に比例させると 95〜102 % で、外形に収まらない見込み。面積の試行（11/19 夜、LibreLane、GF180 9 トラック、`gf180/tapeout/digital/eeg_digital_top_r14/`）：合成 6,182 セル・225,710 µm²（r13 ＋26 %）。440 × 700 µm は使用率 92.0 % でクロックツリーの挿入後の詳細配置が失敗。440 × 900 µm は使用率 73.6 % で完走（配線の DRC・Magic・KLayout 0、LVS 一致、アンテナ 0、セットアップ最悪 ＋0.520 ns（ss、CIC → 丸めと飽和、r13 ＋1.096）、ホールド ＋0.194 ns）。新しいリセットの分配木の最大スルー 4.76 ns（上限 3 ns）は要修正。DVDD のデカップリングの上に 200 µm の余地あり。**r14 のマクロの外形を 440 × 900 µm に決定**（11/19 夜、ユーザーの判断「Yes, 440 × 900」。チップでは DVDD のデカップリングを 200 µm 上へ移す）。lint：Verilator の -Wall（除外なし）で警告 0 に整理（cc3652e6）。11/20：監査（ユーザーの指示「最新の遷移図をもとに，全く問題がないかきちんとチェックしてください。監査を行い，問題がなくなるまで続けてください。」、`gf180_digital_control_audit_20261120.md`）。第 1 回（自らの確認と、結論を渡さない独立の監査 2 件）で 20 件を指摘し、全て修正：重大 4 件（WARMUP の反映で T_WARM を数え直さず、オフセット DAC の変更と同じ tick に AFE_RST を解除しうる → 数え直しと同じ tick の満了の取り消し、要件 SEQ-16。サンプルの OVL が窓 3 ms のうち直前の 1 ms のみ → 3 個の出力の間隔。SOFT_RESET が格子・SEQ・CHOP1 を戻し多チップの同期が崩れる → 制御のみを戻す。模範のホスト手順が記載どおりに動かない → APPLY で FIFO を空にし、CMD_PENDING ＝ 0 を待つ手順）、中 3 件（64 kHz で未処理の命令の間に書いたシャドウを命令が読む → 書き込みを STATE_ERR、高抵抗の電極で APPLY_NR の整定が CHANGED を超える → 3 ＋ T_ELEC 個と RUN の前の待ち直し、探索の T_ELEC）、軽 6 件、検証の穴 3 件、文書の不一致 13 件、アナログの未確認 1 件、RUN を出ても CHANGED の残りが付く 1 件、試験が終わらない変異 1 件。修正のあとの検証：仕様の検査は違反 0、自己試験 50／15 種を全て検出、tb_seq 262,496 事象で不一致 0（77 欄、タイマを独立に模擬）、tb_top_r14 A〜K で誤り 0（FIFO 8 段と 4 段、29 サンプルが黄金の CIC と一致）、tb_spi_r14 1,803 フレームで不一致 0（33 分岐）、Verilator 警告 0、変異の自己試験はブロック全体 38 種・SPI 13 種・シーケンサ 8 種の全てを検出。第 2 回（新たな独立の監査 3 件：シーケンサとアナログ側、SPI・レジスタ・FIFO・データの経路、検証と文書）：RTL の機能の誤りはなし。ホスト手順（高抵抗の電極の探索、命令の完了の確認、DRDY_N の読み方）、仕様の検査器の穴（待ちを別の事象で切る表の誤り）、CHANGED の上書き、試験の穴（RTL に誤りを入れた写し 15 種が全ての試験を通った：アナログの制御端子の値、タイマの長さと限界、cfg_ok の範囲、DFLAG.OVL の制限、FIFO の模型との照合、実行器の判定）、文書の不一致を全て対応。端子の規則を仕様源に入れ、RTL の範囲の表と OFEN を生成に改めた。試験 11 群が合格、変異の自己試験はブロック全体 59・SPI 13・シーケンサ 11・FIFO 5 種の全てを検出。第 3 回（独立の監査 3 件）：RTL の論理の誤りはなし。安全側の変更 1 件（SPI の不正な状態の値を FRAME_ERR に、NFR-05）。試験と検査器の穴（APPLY_NR の規則、シャドウだけの書き込み、SOFT_RESET の FIFO、W1C、全番地の連続読み出し、STATE、RAW とフレームの時刻の端子、実行器の判定、仕様の検査器の 9 種）、ホスト手順（CRC を最初に有効に、SOFT_RESET の確認と DAC の書き直し、APPLY_NR の歩み）、文書を全て対応。試験 13 群が合格、変異はブロック全体 78・SPI 13・シーケンサ 11・FIFO 5・レジスタ 3 種の全てを検出。第 4 回（独立の監査 3 件）：RTL の論理の誤りはなし。安全側の変更 1 件（SOFT_RESET の確定のサイクルの tick と出力の時刻を止め、端子の短いパルスを除く）。写し 24 種が全ての試験を通った穴（M の上位の APPLY_NR、PULSE の CHOP_EN、STATUS の READY、SOFT_RESET をまたぐ過負荷の検出と DAC_CLK、拒否した命令、SPI の不正な状態、CHOP1 の境界など）を塞ぎ、cfg_ok と nr_ok の照合、全ての出力がレジスタであることの構造の確認、仕様の検査器の分岐ごとの性質（自己試験 78 種）を加えた。ホスト手順（命令の前の設定の確認、IF_CFG を 1 回で、SOFT_RESET の確認の改訂）。第 5 回（独立の監査 3 件）：RTL の論理の誤りはなし。サンプルの CRC に先頭バイト 0xC0 を含める（1 ビットの化けで CRC の合う空の語となり読み出しが止まる穴）、CIC のクリアの判断を SOFT_RESET の確定のサイクルで止める、命令の確認のサイクルの試験（T7、tb_regs）、仕様の検査器を tick の解決の結果で（自己試験 83 種）、変異の実行器の判定（TIMEOUT は未決）、手順の穴。17 件を修正。第 6 回（独立の監査 3 件）：RTL の論理の誤りはなし。OVL の印を両端の符号のフレームに限る（尾が窓の外の間隔に及ぶ、安全側）、ホスト手順を一つに整理し同期の回復と上限、全ての試験を通った写し 10 種の穴（T10、T11、マスク、R4b、R9 など）、仕様の検査器が表の 1 か所の書き換えを見逃す穴（シーケンサ 51、SPI 174 → 0 と等価な 2。自己試験 95 種）、変異の実行器（TOOL ERROR、INCOMPLETE）。14 件を修正。試験 16 群が合格、変異の全数の実行（165 種と基準 9 本）は、第 7 回の修正のため 110 本で止めた（全て検出）。第 7 回（独立の監査 3 件）：RTL の論理の誤りはなし。AFE_RST が ADC の積分器のリセットを兼ねることを明記、ホスト手順（CRC の合うサンプル、同期の回復の確かめ、RUN の APPLY を STATE ≠ RUN で）、全ての試験を通った写し 4 種の穴（SEQ の計数の表、過負荷の閾値、FIFO_LEVEL、ガード）、表の 1 か所の書き換えの全数が検査で捕まる（シーケンサ 1,931、SPI 1,159 通り。自己試験 105 種、regmap 19 種）。16 件を修正。第 8 回（独立の監査 3 件）：RTL の論理の誤りはなし。CHOP_STOP の説明の訂正（出力チョッパも相 A に固定）、ホスト手順（APPLY の確かめの起点、(a) を満たさない命令、W1C、CRC 無効のサンプル）、全ての試験を通った写し 5 種の穴（ガードの判断の順、空の語、RAW_DATA、MISO の遅れ）、STATUS とサンプルの状態のバイトを生成した定数で（形式の等価性で一致）、黄金の比較を全ての段に。18 件を修正。第 9 回（独立の監査 3 件）：RTL の論理の誤りはなし。整合する設定の APPLY と APPLY_NR を拒否とする表が検査を通る穴（C の 6,267 通りの掃引で 12 通り）→ 命令の結果を要件から独立に書いた規則と照合（通るのは等価な 28 通り）、同期の段数の構造の検査と遅れの下限、自己試験を目的の違反の文で（fsm_spec 152 種、regmap 37 種、全ての違反の文を固定）、全ての試験を通った写し 3 種の穴（SOFT_RESET の長さ、TH の取り込みのサイクル、RAW の読み込みのサイクル）と V（各状態の APPLY と APPLY_NR）、変異の実行器（SIM ERROR、CHECKER ERROR、--only）、ホスト手順（複数チップの SEQ の揃い、ホストだけの再起動、モードの判定、CRC 無効の読み出しは 3 バイト以上）。18 件を修正。第 10 回（独立の監査 3 件）：RTL の変更 1 件（SPI：リセットの解除のときに走っているフレームを途中から拾い、CRC の書き込みの尾を CRC なしの書き込みとして確定していた → CS_N の同期の初期値を Low、High を見るまでフレームを取らない。W で確認）。APPLY_NR の桁上がりの過渡（511 → 512 で電極換算 約 159 mV）→ 16 の倍数をまたぐ 1 段は APPLY、トランジスタのレベルの評価を実行中。regmap の既定値の固定（試験の設定の既定値の書き換えが全てを通った）とフィールドの規則、仕様の検査の SPI-03 と事象ごとの条件、BFM のフレームの始まりの時刻、V10。17 件を修正。第 11 回（独立の監査 3 件）：RTL の論理の誤りはなし（RTL は手書きの集合と位置を生成した定数に置き換えるのみ、yosys の形式の等価性で一致）。ホスト手順の ERR の持ち主（手順 6 と 8 のクリアが手順 3、4、9 の確かめの証拠を消す → 共通の規則 (e)、手順 3 の読み戻し、手順 4 は効果で）、過負荷の両端の集合の境、不正な状態値と命令の組、読み出し専用の位置、合法な値の表、SPI のバイトの事象の条件。11 件を修正。第 12 回（独立の監査 3 件）：RTL の論理の誤りはなし（RTL は注記のみ）。検証の穴（重大）：eeg_regs のリセットを同期とした写しが全てを通った → tb_top_r14 の X（MCLK を止めて RESET_N）と、全てのフリップフロップの非同期のリセットの構造の検査。仕様の検査器（標本の窓への書き込み、FILL から RUN、タイマの欄）、ホスト手順（複数チップの SEQ、持続する過負荷の手順 8、手順 3 のマスク）、区画、文書。14 件を修正。第 13 回（独立の監査 3 件）：RTL の論理の誤りはなし（RTL は eeg_clkgen の tick の位置を生成した定数に。形式の等価性で一致）。ホスト手順（重大）：レベルのモードの DRDY_N の立ち下がりを逃すと読み出しが止まる → レベルで読む。試験の穴：守らないレジスタの未処理の命令の間の書き込み、CRC 有効の窓への書き込み（全てを通った写し 3 種）。検査器：確定しない書き込みの保持、コードとビットの固定、合成状態の所属。サンプルの二重の記録、tick の一つの出どころ、手順 4 の出口。12 件を修正。第 14 回（独立の監査 3 件）：RTL の論理の誤りはなし（RTL は状態のレジスタに fsm_encoding ＝ "none" の属性のみ）。検査器と試験の穴（重大 3 件）：REG-03 を確かめず STOP で反映する表と RTL が通った、サンプルの OVERRUN ＝ 0 と空の語の ERR ＝ 0 を確かめていなかった、空の FIFO への格納と同じサイクルの写しを通らなかった → 検査、V12、G、T4、T13。ホスト手順の手順 4、端子の欄の照合、tick の位置の照合、FIFO の群の基準、タイミング図の文。17 件を修正。第 15 回（独立の監査 3 件）：RTL の論理の誤りはなし（RTL の変更なし。A は文書の 1 件のみ）。ホスト手順（重大）：手順 5 の SEQ の比較は約 0.7 ms ずれた格子を通す → 番号と位相（DRDY_N の時刻付け、または STATUS の DATA）、RST-04 に RESET_N の同時の単調な解除の基板の要件、CRC の合わない回は数えない。試験の穴（重大）：SOFT_RESET の全てのレジスタと旗の復帰を確かめず、タイマ、ALERT のマスク、DFLAG、DRDY_MODE を戻さない写しが通った → Y。書き込み専用の読み出し、合法でない全ての値、STATUS の READY と DATA、待つ間の鍵の効果。検査器：STATUS の 6 ビット、1 バイトの命令と鍵、読み値、SAMPLE の既定値。SPI のタイミング図をサンプルのフレームの一つの定義と表から生成（`wave.py selftest`）。文書（手順 6、NFR-05、§4.10 など）と V13。18 件を修正し、APPLY_NR の桁上がりの評価を記録（図 49：最初の周期 12.4 mV、0.1 mV 未満まで 25 µs、飽和なし。DAC の最上位の桁上がりの DNL ≈ −1 LSB）→ 規則の扱いは判断に諮る（11/21：これは範囲の外の圧縮。範囲の中の再実行では、出力の生の波形が 1.72 V で ADC の範囲を 0.3〜0.4 µs 超えるが飽和なし、チョッパの周期の平均は最初の周期から終わりの値、DNL ≈ −0.5 LSB。図 49 を描き直した）。第 16 回（独立の監査 3 件）：RTL の論理の誤りはなし。アナログの検証（重大）：VER-07 の結果が未記録で、オフセットの書き込みの 3 本と図 49 の桁上がりのランは M を公称の 1 段から決めたため ADC の入力が範囲の外 → デッキに r14 の既定のトリムと範囲の選択肢、範囲の中で 6 本、起動と電極に R・C のある 1 本も r14 の既定のトリムで再実行中。試験の穴（重大）：SOFT_RESET を越えて残る未処理の命令 → I。ホスト手順：窓の隣の 3 アドレスの 2 回の読み、読み直しは 1 バイト分の SCLK、再送の規則の範囲。基板：MISO の引き上げか保持（PIN-04）、RESET_N を能動的に Low。鍵と命令の 1 バイトの比べ、合成状態の始まりの状態、優先順位の完全性、生成する文、実行器の生成物の作り直し。13 件を修正。第 17 回（独立の監査 3 件）：RTL の論理の誤りはなし。試験の穴（重大）：CHOP_BLANK の端子の CHOP_OUT の縁に対する位置（端子をフリップフロップにした写しが全てを通った）→ 端子の監視。CHOP1 の e16、O の DBG_SEL 3、Y0、V13 を 2 MHz に、リセットのあとの波形。検査器：tick の列挙の固定、同じ動作の分岐の拒否、regmap.check のクラッシュ。文書：CHOP1 の速さの変化の位置、R_sc、nr_ok の文、手順 2 の RESET_FLAG のクリアの確かめ、サンプルの先頭バイトの一つの出どころ（SMP_HDR）。14 件を修正。マクロ r14m3（クロックツリーの束 10 個・0.2 pF）：セットアップ ss ＋0.979 ns、クロックの警告 9・62 → 1・1、最大スルー 2 は残る。マクロ：r14m1（クロックツリーの束と密度 80 %）はセットアップ −0.436 ns（ss）で不採用、r14m2（r13 の値に戻し、タイミングの修復の余裕を追加）を 11/20 1 時 13 分に開始 | 11/19 | ▶（要件 r3 ✅、詳細仕様 ✅、r14 の RTL と照合 ✅、面積の試行 ✅（外形 440 × 900 µm に決定）、監査の第 1 回 ✅（20 件を修正）、第 2 回 ✅（25 件を修正）、第 3 回 ✅（18 件を修正）、第 4 回 ✅（18 件を修正）、第 5 回 ✅（17 件を修正）、第 6 回 ✅（14 件を修正）、第 7 回 ✅（16 件を修正）、第 8 回 ✅（18 件を修正）、第 9 回 ✅（18 件を修正）、第 10 回 ✅（17 件を修正）、第 11 回 ✅（11 件を修正）、第 12 回 ✅（14 件を修正）、第 13 回 ✅（12 件を修正）、第 14 回 ✅（17 件を修正）、第 15 回 ✅（18 件を修正）、第 16 回 ✅（13 件を修正。アナログの再実行中）、第 17 回 ✅（14 件を修正）、第 18 回を実施中、次は通しの試験・ゲートレベル） |
 
 ## D. 検証（検証計画の L1〜L4）
 

diff --git a/first_tapeout_eeg/documentation/weekly_reports/wr_2026-1120-1126.md b/first_tapeout_eeg/documentation/weekly_reports/wr_2026-1120-1126.md
@@ -214,7 +214,8 @@
 - 結果：桁上がり（511 → 512、512 → 511、DAC の線 20 本）では、INN が約 39 mV 一瞬下がり、AFE の出力（OUTP − OUTN）の生の波形は通常の最大約 1.0 V に対し約 1.7 V に達するが、どの段も飽和しない（初段の出力は 0.65〜2.38 V）。チョッパの周期の平均で、512 → 511 と 510 → 511（同じ符号で終わる）の差は、最初の周期 12.4 mV、1 mV 未満まで 18 µs、0.1 mV 未満まで 25 µs（1 単位は出力で 29.0 mV）。見積もりより大幅に小さく、CHANGED の印（3 ＋ T_ELEC 個）の窓の中で消える。
 - 別に、オフセット DAC の最上位の桁上がりで、コード 512 の出力が 511 とほぼ同じ（＋0.41 mV、1 単位の −0.014。DNL ≈ −1 LSB）であることが分かった。この符号の近くでは、電極のオフセットの打ち消しの残りが最大約 2 単位（約 0.6 mV）となりうる（AFE の飽和の約 4 mV に対し小さい）。
 - 訂正（11/21、監査の第 16 回）：上の 3 本は、電極のオフセットを公称の 1 段（0.3113 mV）の 511 倍（159.1 mV）としたため、実測の 1 段（約 0.301 mV）では ADC の入力が約 ＋0.94 V（範囲 ±0.484 V の外、値は圧縮される）の動作点であった。上の値と DNL の観察は範囲の外のものであり、範囲の中（154.0 mV、範囲 4、r14 の既定のトリム）で再実行中である。図 49 にもその旨を記した。
-- 判断を仰ぐ点：(1) M[9:4] の変わる 1 段を APPLY とする規則を保つか緩めるか（緩めれば電極の追従の 1 段が全て APPLY_NR となり、データが途切れない）。(2) 保つなら RTL で強制するか（nr_ok に M[9:4] の不変を加える）。(3) DAC の最上位の桁上がりの DNL を、ほかの群の境（127／128、255／256）とコーナーでも確かめるか。
+- 範囲の中の再実行（11/21 6 時〜10 時半、`pex/runs/nr_step/run_nr_step_r14.sh`、各約 4.5 時間。図 49 を描き直した）：桁上がり（511 ↔ 512、DAC の線 20 本）では AFE の出力の生の波形が 1.72 V に達し、ADC の範囲 ±0.484 V を 0.3〜0.4 µs 超える（超えた分の面積 0.25 V·µs、ADC のフレームの 1 個未満）が、どの段も飽和せず（初段の出力 0.80〜2.52 V。桁上がりのない 510 → 511 では 0.85〜2.41 V）、チョッパの周期の平均は最初の周期から終わりの値にある（桁上がりそのものの過渡は 32 µV 以下）。桁上がりの段は bit 0 の段（510 → 511、ADC の入力で 95.2 mV）の 0.49（46.5 mV。DNL ≈ −0.5 LSB で、抽出のビットの重みによる範囲 4 の段 100〜332 µV の内）。11/20 の 12.4 mV と DNL ≈ −1 LSB は範囲の外の圧縮であった。過渡は飽和を残さず、CHANGED の印（3 ＋ T_ELEC 個）の窓の外に影響しない。アナログの過渡からは、M[9:4] の変わる 1 段を APPLY とする規則は要らない。
+- 判断を仰ぐ点（範囲の中の結果をもって）：(1) M[9:4] の変わる 1 段を APPLY とする規則を保つか緩めるか（緩めれば電極の追従の 1 段が全て APPLY_NR となり、データが途切れない。範囲の中の評価では緩めてよい）。(2) 保つなら RTL で強制するか（nr_ok に M[9:4] の不変を加える）。(3) DAC の最上位の桁上がりの DNL を、ほかの群の境（127／128、255／256）とコーナーでも確かめるか。
 
 ![APPLY_NR の桁上がりの過渡（図 49）](../figures/gf180/r13_20261119/viz/gf180_viz_r13_49_nr_carry.png)
 

diff --git a/first_tapeout_eeg/documentation/figures/gf180/r13_20261119/README.md b/first_tapeout_eeg/documentation/figures/gf180/r13_20261119/README.md
@@ -11,5 +11,5 @@
 - ここの図
   - 48（クロックとデータの線と敏感な網、11/19）：`gf180/tapeout/viz/clocklines_fig.py extract` のあと `plot`。データは `gf180/tapeout/viz/data_r13/clock_lines.json`。(e) の波形は r12 の typical の起動のラン（チップの配線は r13 と同じ形）。
   - 46（電源の除去、途中の版、11/19 夜）：`EEG_PEX_REV=r13 gf180/tools/venv310/bin/python gf180/tapeout/viz/psrr_fig.py`（`psrr.py` を同じ環境変数で回したあと）。ランは `gf180/tapeout/pex/runs/psrr_r13/`（`run_psrr_r13.sh`）。最初の 4 本（typical の釣り合いと ELP に 51 kΩ ∥ 47 nF、ff、ss）とモンテカルロ 1〜4（11/19 21 時 51 分に更新）。モンテカルロ 5〜8 と sf、fs は実行中、DVDD は未実行。
-  - 49（APPLY_NR の桁上がりの過渡、11/21。r14 のデジタル制御の監査の第 10 回の A1）：`gf180/tools/venv310/bin/python gf180/tapeout/viz/nrstep_fig.py`。ランは `gf180/tapeout/pex/runs/startup/start_…_nr<m1>to<m2>_chip_r13`（`pex/runs/nr_step/run_nr_step.sh`、11/20）。11/21 の監査の第 16 回：このランは電極のオフセットを公称の 1 段の 511 倍（159.1 mV）としたため、ADC の入力が約 ＋0.94 V（範囲の外、圧縮）の動作点であった。範囲の中の再実行（154.0 mV、範囲 4、r14 の既定のトリム。`run_nr_step_r14.sh`）の結果で描き直す。
+  - 49（APPLY_NR の桁上がりの過渡、11/21。r14 のデジタル制御の監査の第 10 回の A1）：`gf180/tools/venv310/bin/python gf180/tapeout/viz/nrstep_fig.py`。ランは `gf180/tapeout/pex/runs/startup/start_…_nr<m1>to<m2>_chip_r13`（`pex/runs/nr_step/run_nr_step.sh`、11/20）。11/21 の監査の第 16 回：このランは電極のオフセットを公称の 1 段の 511 倍（159.1 mV）としたため、ADC の入力が約 ＋0.94 V（範囲の外、圧縮）の動作点であった。範囲の中の再実行（154.0 mV、範囲 4、r14 の既定のトリム。`run_nr_step_r14.sh`）の結果で 11/21 に描き直した（ランは `start_…_ib3_ibr3_bt10_rng4_nr<m1>to<m2>_chip_r13`）：飽和なし、ADC の範囲を超えるのは 0.3〜0.4 µs、チョッパの周期の平均は最初の周期から終わりの値、DNL ≈ −0.5 LSB。
   - ほかの番号は、r13 の評価（PSRR から）がそろってから、この版の図としてひとそろい描く。
